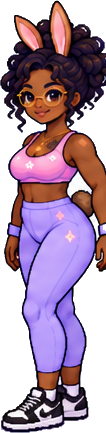
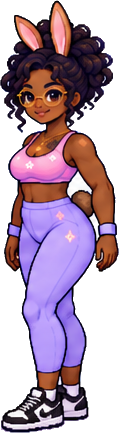
feat(today): cozy homepage with Rae as the centerpiece
The owner chose "big stage + cards": Rae stands front and centre (250px,
idle bob) in a warm room drawn in inline SVG. It has a window whose sky
follows the time of day (morning, afternoon, sunset, a night sky with a
moon and stars), curtains, twinkling fairy lights, a plant, a lamp glow
behind her and a rug under her feet. The heading greets by time of day
and adds the profile name unless it's the default "Me" (greeting.ts,
tested). The workout cards are unchanged below; "Up next" stays above
the fold at 390x844, even with the welcome card showing (bottom at 716px).

Also fixes the full-body cutouts: the bible crops were too tight and
clipped her hands. They are re-derived with wider boxes (front 133x434,
3/4 119x433), with asset-db sizes updated.

Claude-Session: https://claude.ai/code/session_01KLsPu38C6a7jMrnEkobsrH

diff --git a/src/presentation/components/RaeHero.tsx b/src/presentation/components/RaeHero.tsx
@@ -1,21 +1,106 @@
 import { Link } from 'react-router-dom'
 import { RaeFigure } from './Rae'
+import type { DayPart } from '../greeting'
 
-// Today's centerpiece: full-body Rae on a Pixel Bloom backdrop. The backdrop
-// is CSS only, styled after the light "Exercise Asset Pack v1.0" sheet's
-// sky, lavender and blush fields. It is not cropped or redrawn from it. Kept
-// short (~180px) so the one-tap "Up next" card stays above the fold on a
-// 390x844 phone. Taps through to Meet Rae.
-export function RaeHero() {
+// Today's centerpiece: Rae standing in a cozy room. Everything around her
+// is inline SVG/CSS, with no image assets: a window whose sky follows the
+// time of day, fairy lights, a plant, a warm lamp glow and a rug. It stays
+// short enough that the "Up next" card is still above the fold on a 390x844
+// phone. Taps through to Meet Rae.
+
+const SKY: Record<DayPart, [string, string]> = {
+  morning: ['#bfe3ff', '#fff4d6'],
+  afternoon: ['#9fd4ff', '#dff1ff'],
+  evening: ['#ffb38a', '#ffd6e7'],
+  night: ['#3b3a6b', '#6d5fa8'],
+}
+
+export function RaeHero({ part }: { part: DayPart }) {
+  const [skyTop, skyBottom] = SKY[part]
+  const night = part === 'night'
   return (
-    <Link to="/rae" aria-label="Meet Rae" className="rae-hero block">
-      <span className="rae-hero__sparkle" style={{ left: '14%', top: '22%' }} aria-hidden />
-      <span className="rae-hero__sparkle" style={{ left: '78%', top: '16%', animationDelay: '0.8s' }} aria-hidden />
-      <span className="rae-hero__sparkle" style={{ left: '86%', top: '52%', animationDelay: '1.6s' }} aria-hidden />
-      <span className="rae-hero__sparkle" style={{ left: '22%', top: '60%', animationDelay: '2.2s' }} aria-hidden />
-      <span className="rae-hero__floor" aria-hidden />
-      <span className="rae-hero__figure">
-        <RaeFigure view="3q" height={160} />
+    <Link to="/rae" aria-label="Meet Rae" className={`rae-room block rae-room--${part}`}>
+      <svg
+        className="rae-room__scene"
+        viewBox="0 0 360 280"
+        preserveAspectRatio="xMidYMax slice"
+        aria-hidden
+        shapeRendering="crispEdges"
+      >
+        <defs>
+          <linearGradient id="rae-sky" x1="0" y1="0" x2="0" y2="1">
+            <stop offset="0" stopColor={skyTop} />
+            <stop offset="1" stopColor={skyBottom} />
+          </linearGradient>
+          <radialGradient id="rae-lamp" cx="0.5" cy="0.55" r="0.5">
+            <stop offset="0" stopColor="#fff3c4" stopOpacity="0.85" />
+            <stop offset="1" stopColor="#fff3c4" stopOpacity="0" />
+          </radialGradient>
+        </defs>
+
+        {/* Window with curtains */}
+        <rect x="26" y="40" width="92" height="104" fill="#fffaf2" />
+        <rect x="32" y="46" width="80" height="92" fill="url(#rae-sky)" />
+        {night ? (
+          <>
+            <circle cx="92" cy="66" r="9" fill="#fff6d8" />
+            <rect x="46" y="58" width="2" height="2" fill="#fff" />
+            <rect x="62" y="82" width="2" height="2" fill="#fff" />
+            <rect x="98" y="100" width="2" height="2" fill="#fff" />
+          </>
+        ) : (
+          <circle cx="90" cy={part === 'evening' ? 118 : 68} r="11" fill={part === 'evening' ? '#ffe08a' : '#fff6c9'} />
+        )}
+        <rect x="70" y="46" width="4" height="92" fill="#fffaf2" />
+        <rect x="32" y="90" width="80" height="4" fill="#fffaf2" />
+        <path d="M18 34 h24 v112 q-6 -30 -24 -40 z" fill="#f7b8cf" />
+        <path d="M126 34 h-24 v112 q6 -30 24 -40 z" fill="#f7b8cf" />
+        <rect x="16" y="30" width="112" height="6" rx="3" fill="#d9a3b8" />
+
+        {/* Fairy lights */}
+        <path d="M150 22 Q205 48 260 24 Q300 44 350 20" fill="none" stroke="#c9a88f" strokeWidth="1.5" />
+        {[
+          [162, 29],
+          [184, 37],
+          [206, 40],
+          [228, 35],
+          [250, 27],
+          [272, 30],
+          [296, 36],
+          [320, 31],
+          [342, 23],
+        ].map(([x, y], i) => (
+          <circle
+            key={i}
+            className="rae-room__bulb"
+            cx={x}
+            cy={y + 4}
+            r="3.2"
+            fill={i % 3 === 0 ? '#ffd27a' : i % 3 === 1 ? '#ffb3cf' : '#c9b8ff'}
+            style={{ animationDelay: `${(i % 4) * 0.7}s` }}
+          />
+        ))}
+
+        {/* Lamp glow behind Rae */}
+        <ellipse cx="180" cy="150" rx="120" ry="120" fill="url(#rae-lamp)" />
+
+        {/* Floor and rug */}
+        <rect x="0" y="232" width="360" height="48" fill="#f2d3bd" />
+        <rect x="0" y="232" width="360" height="3" fill="#e8bfa4" />
+        <ellipse cx="180" cy="252" rx="112" ry="20" fill="#e9c6f2" />
+        <ellipse cx="180" cy="252" rx="92" ry="15" fill="#f7cfe0" />
+        <ellipse cx="180" cy="252" rx="70" ry="10" fill="#fde3ec" />
+
+        {/* Plant */}
+        <ellipse cx="316" cy="196" rx="12" ry="22" fill="#7cc49a" transform="rotate(-24 316 196)" />
+        <ellipse cx="334" cy="192" rx="11" ry="24" fill="#8fd4a8" transform="rotate(18 334 192)" />
+        <ellipse cx="326" cy="184" rx="9" ry="26" fill="#6db88c" />
+        <rect x="308" y="210" width="36" height="30" rx="4" fill="#e59a7a" />
+        <rect x="306" y="208" width="40" height="6" rx="3" fill="#d4866a" />
+      </svg>
+
+      <span className="rae-room__figure">
+        <RaeFigure view="front" height={250} />
       </span>
     </Link>
   )

diff --git a/src/index.css b/src/index.css
@@ -257,38 +257,35 @@ input[type='range'] {
 .rae-pop { animation: rae-pop 0.55s cubic-bezier(0.2, 0.9, 0.3, 1.2) both; }
 .pixelated { image-rendering: pixelated; }
 
-/* Today's Rae hero: a pastel stage after the light Pixel Bloom sheet
-   (sky over lavender, blush floor). Sparkles twinkle only under full motion. */
-.rae-hero {
+/* Today's Rae room: a warm wall behind an inline-SVG scene. Bulbs twinkle
+   only under full motion. */
+.rae-room {
   position: relative;
-  height: 184px;
+  height: 296px;
   overflow: hidden;
-  border-radius: 1.5rem;
-  background:
-    radial-gradient(ellipse 38% 26% at 22% 30%, rgb(255 255 255 / 0.7), transparent 70%),
-    radial-gradient(ellipse 30% 20% at 80% 22%, rgb(255 255 255 / 0.6), transparent 70%),
-    linear-gradient(180deg, var(--color-field-calm) 0%, var(--color-field-info) 62%, var(--color-field-primary) 100%);
+  border-radius: 1.75rem;
+  background: linear-gradient(180deg, #fff3e8 0%, #ffe6d6 70%, #f2d3bd 100%);
+  box-shadow: inset 0 -6px 0 rgb(0 0 0 / 0.04);
 }
-.rae-hero__floor {
+.rae-room--night {
+  background: linear-gradient(180deg, #f3e6ef 0%, #ecd9ea 70%, #e6c9c9 100%);
+}
+.rae-room__scene {
   position: absolute;
-  inset: auto 0 0 0;
-  height: 30px;
-  background: var(--color-field-primary);
-  border-top: 3px solid rgb(255 255 255 / 0.75);
+  inset: 0;
+  width: 100%;
+  height: 100%;
 }
-.rae-hero__figure {
+.rae-room__figure {
   position: absolute;
   left: 50%;
-  bottom: 8px;
+  bottom: 22px;
   transform: translateX(-50%);
 }
-.rae-hero__sparkle {
-  position: absolute;
-  width: 10px;
-  height: 10px;
-  background: #fff;
-  clip-path: polygon(50% 0, 62% 38%, 100% 50%, 62% 62%, 50% 100%, 38% 62%, 0 50%, 38% 38%);
+.rae-room__bulb {
   animation: rae-twinkle 2.8s ease-in-out infinite;
+  transform-box: fill-box;
+  transform-origin: center;
 }
 @keyframes rae-twinkle {
   0%, 100% { opacity: 0.35; transform: scale(0.8); }

diff --git a/src/presentation/screens/TodayScreen.tsx b/src/presentation/screens/TodayScreen.tsx
@@ -16,6 +16,8 @@ import type { WorkoutTemplate } from '../../domain/content/types'
 import { WEEKDAY_LABELS, isScheduleSet, resolveToday, type TodayResolution, type Weekday } from '../../domain/schedule/weeklySchedule'
 import { WelcomeCard } from '../components/WelcomeCard'
 import { RaeHero } from '../components/RaeHero'
+import { dayPart, greeting } from '../greeting'
+import { activeProfile } from '../../infrastructure/profiles'
 
 function estimateMinutes(template: WorkoutTemplate | undefined): number {
   if (!template) return 0
@@ -37,6 +39,8 @@ export function TodayScreen() {
   const [inProgress, setInProgress] = useState<SessionPlan[] | null>(null)
   const [plan, setPlan] = useState<Plan | null>(null)
   const [custom, setCustom] = useState<WorkoutTemplate[]>([])
+  const [profile] = useState(() => activeProfile())
+  const [now] = useState(() => new Date())
 
   useEffect(() => {
     getInProgressSessions().then(setInProgress)
@@ -74,9 +78,9 @@ export function TodayScreen() {
 
   return (
     <div className="p-4 space-y-4">
-      <h1 className="text-xl font-bold">Today</h1>
+      <h1 className="text-xl font-bold">{greeting(now, profile.name)}</h1>
 
-      <RaeHero />
+      <RaeHero part={dayPart(now)} />
 
       <WelcomeCard />
 

diff --git a/src/presentation/greeting.test.ts b/src/presentation/greeting.test.ts
@@ -1,0 +1,30 @@
+import { describe, expect, it } from 'vitest'
+import { dayPart, greeting } from './greeting'
+
+const at = (h: number) => new Date(2026, 8, 26, h, 30)
+
+describe('dayPart', () => {
+  it('splits the day at 5, 12, 17 and 21', () => {
+    expect(dayPart(at(4))).toBe('night')
+    expect(dayPart(at(5))).toBe('morning')
+    expect(dayPart(at(12))).toBe('afternoon')
+    expect(dayPart(at(17))).toBe('evening')
+    expect(dayPart(at(21))).toBe('night')
+  })
+})
+
+describe('greeting', () => {
+  it('adds a real profile name', () => {
+    expect(greeting(at(9), 'Andrae')).toBe('Good morning, Andrae')
+  })
+
+  it('leaves out the default "Me" profile name and blanks', () => {
+    expect(greeting(at(18), 'Me')).toBe('Good evening')
+    expect(greeting(at(14), '  ')).toBe('Good afternoon')
+    expect(greeting(at(14))).toBe('Good afternoon')
+  })
+
+  it('says good evening late at night', () => {
+    expect(greeting(at(23), 'Rae')).toBe('Good evening, Rae')
+  })
+})

diff --git a/src/presentation/greeting.ts b/src/presentation/greeting.ts
@@ -1,0 +1,18 @@
+export type DayPart = 'morning' | 'afternoon' | 'evening' | 'night'
+
+export function dayPart(date: Date): DayPart {
+  const h = date.getHours()
+  if (h >= 5 && h < 12) return 'morning'
+  if (h >= 12 && h < 17) return 'afternoon'
+  if (h >= 17 && h < 21) return 'evening'
+  return 'night'
+}
+
+// The default profile is named "Me"; "Good morning, Me" reads wrong, so a
+// name is only added when someone has set a real one.
+export function greeting(date: Date, name?: string): string {
+  const part = dayPart(date)
+  const base = part === 'night' ? 'Good evening' : `Good ${part}`
+  const trimmed = name?.trim()
+  return trimmed && trimmed.toLowerCase() !== 'me' ? `${base}, ${trimmed}` : base
+}

diff --git a/src/presentation/components/Rae.tsx b/src/presentation/components/Rae.tsx
@@ -50,13 +50,14 @@ type FigureProps = {
 
 export function RaeFigure({ view, height = 240 }: FigureProps) {
   const src = view === 'front' ? '/rae/full-front.png' : '/rae/full-3q.png'
-  // Source figures are ~110x434.
+  // Source sizes: front 133x434, 3/4 119x433 (hands included).
+  const aspect = view === 'front' ? 133 / 434 : 119 / 433
   return (
     <img
       src={src}
       alt={view === 'front' ? 'Rae, front view' : 'Rae, three-quarter view'}
       height={height}
-      width={Math.round((height * 110) / 434)}
+      width={Math.round(height * aspect)}
       className="rae-bob"
       draggable={false}
     />

diff --git a/scripts/assets/derive-rae-preview.py b/scripts/assets/derive-rae-preview.py
@@ -28,8 +28,8 @@ EXPRESSIONS = {
     'determined': 582, 'tired': 687, 'surprised': 778, 'laugh': 878, 'wink': 974,
 }
 FIGURES = {
-    'full-front': (296, 44, 408, 500),
-    'full-3q': (404, 44, 524, 500),
+    'full-front': (282, 40, 418, 505),
+    'full-3q': (408, 40, 546, 505),
 }
 
 
